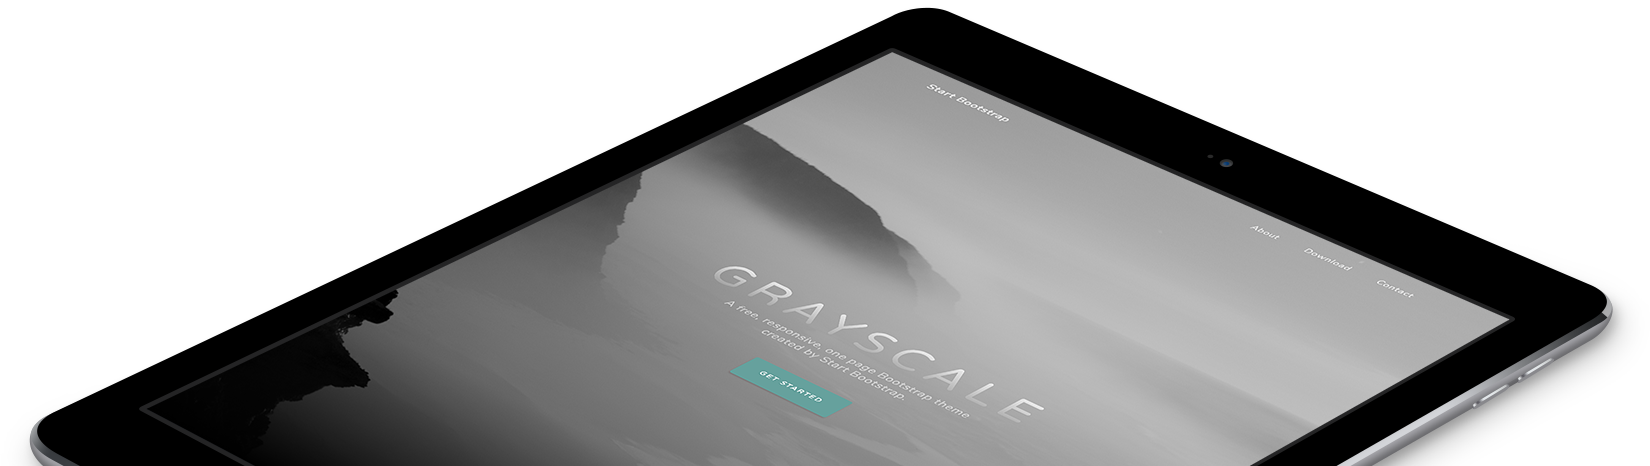
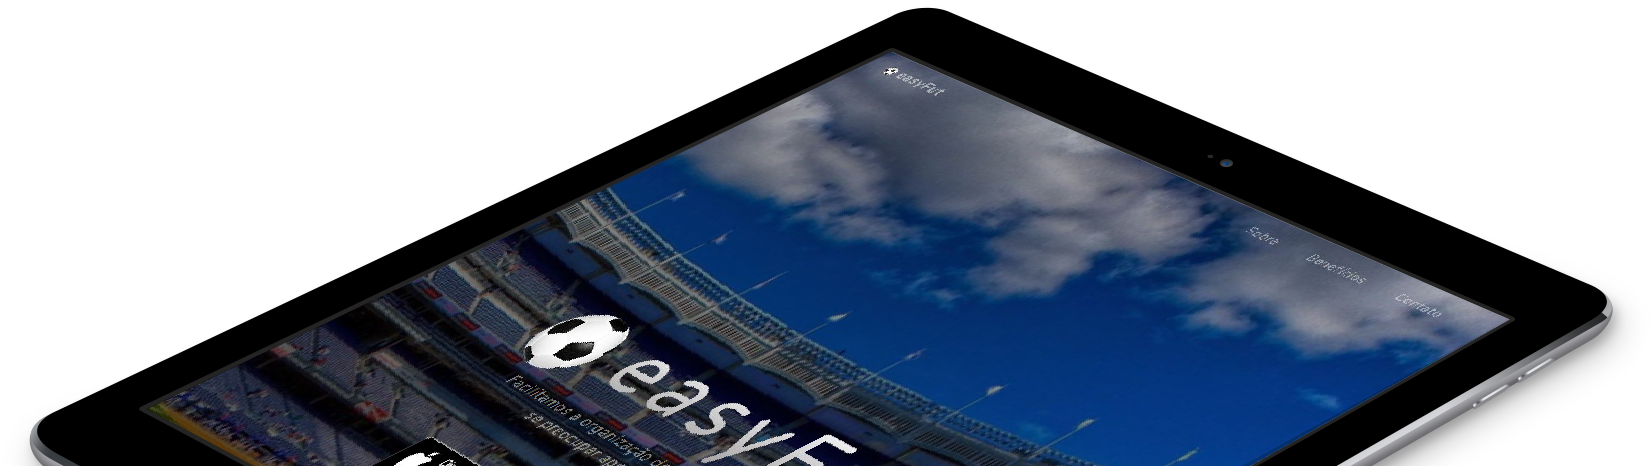
Add files via upload

diff --git a/index.html b/index.html
@@ -1,4 +1,168 @@
 <!DOCTYPE html>
-<html lang="en">
+<html lang="PT-BR">
+    <head>
+        <meta charset="utf-8" />
+        <meta name="viewport" content="width=device-width, initial-scale=1, shrink-to-fit=no" />
+        <meta name="description" content="" />
+        <meta name="author" content="" />
+        <title>easyFut - Futebol simples como deve ser!</title>
+        <link rel="icon" type="image/x-icon" href="assets/img/favicon.ico" />
 
+        <script src="https://use.fontawesome.com/releases/v5.12.1/js/all.js" crossorigin="anonymous"></script>
+        <link href="https://fonts.googleapis.com/css?family=Varela+Round" rel="stylesheet" />
+        <link href="https://fonts.googleapis.com/css?family=Nunito:200,200i,300,300i,400,400i,600,600i,700,700i,800,800i,900,900i" rel="stylesheet" />
+
+        <!-- CSS -->
+        <link href="css/styles.css" rel="stylesheet" />
+    </head>
+    <body id="page-top">
+        <!-- Navigation-->
+        <nav class="navbar navbar-expand-lg navbar-light fixed-top" id="mainNav">
+            <div class="container">
+                <a class="navbar-brand js-scroll-trigger" href="#page-top"><img src="assets/img/favicon.ico"> easyFut</a>
+                <button class="navbar-toggler navbar-toggler-right" type="button" data-toggle="collapse" data-target="#navbarResponsive" aria-controls="navbarResponsive" aria-expanded="false" aria-label="Toggle navigation"><i class="fas fa-bars"></i></button>
+                <div class="collapse navbar-collapse" id="navbarResponsive">
+                    <ul class="navbar-nav ml-auto">
+                        <li class="nav-item"><a class="nav-link js-scroll-trigger" href="#about">Sobre</a></li>
+                        <li class="nav-item"><a class="nav-link js-scroll-trigger" href="#projects">Benefícios</a></li>
+                        <li class="nav-item"><a class="nav-link js-scroll-trigger" href="#signup">Contato</a></li>
+                    </ul>
+                </div>
+            </div>
+        </nav>
+        <!-- Masthead-->
+        <header class="masthead">
+            <div class="container d-flex h-100 align-items-center">
+                <div class="mx-auto text-center">
+                    <h1 class="mx-auto my-0" style="background-color: rgb(160, 159, 159)"><img src="assets/img/bola.png" height="110" width="170">easyFut</h1>
+                    <h2 class="text-white-50 mx-auto mt-2 mb-5">Facilitamos a organização do seu futebol, para se preocupar apenas em jogar.</h2>
+                    <img src="assets/img/badge-apple-store.png" class="pointer" height="100" width="210">
+                    <img src="assets/img/badge-google-play.png" class="pointer" height="100" width="210"><br><br>
+                    <a class="btn btn-primary js-scroll-trigger" href="#about">Começar</a>
+                </div>
+            </div>
+        </header>
+        <!-- About-->
+        <section class="about-section text-center" id="about">
+            <div class="container">
+                <div class="row">
+                    <div class="col-lg-8 mx-auto">
+                        <h2 class="text-white mb-4">Built with Bootstrap 4</h2>
+                        <p class="text-white-50">Grayscale is a free Bootstrap theme created by Start Bootstrap. It can be yours right now, simply download the template on <a href="http://startbootstrap.com/template-overviews/grayscale/">the preview page</a>. The theme is open source, and you can use it for any purpose, personal or commercial.</p>
+                    </div>
+                </div>
+                <img class="img-fluid" src="assets/img/ipad.png" alt="" />
+            </div>
+        </section>
+        <!-- Projects-->
+        <section class="projects-section bg-light" id="projects">
+            <div class="container">
+                <!-- Featured Project Row-->
+                <div class="row align-items-center no-gutters mb-4 mb-lg-5">
+                    <div class="col-xl-8 col-lg-7"><img class="img-fluid mb-3 mb-lg-0" src="assets/img/bg-masthead.jpg" alt="" /></div>
+                    <div class="col-xl-4 col-lg-5">
+                        <div class="featured-text text-center text-lg-left">
+                            <h4>Shoreline</h4>
+                            <p class="text-black-50 mb-0">Grayscale is open source and MIT licensed. This means you can use it for any project - even commercial projects! Download it, customize it, and publish your website!</p>
+                        </div>
+                    </div>
+                </div>
+                <!-- Project One Row-->
+                <div class="row justify-content-center no-gutters mb-5 mb-lg-0">
+                    <div class="col-lg-6"><img class="img-fluid" src="assets/img/demo-image-01.jpg" alt="" /></div>
+                    <div class="col-lg-6">
+                        <div class="bg-black text-center h-100 project">
+                            <div class="d-flex h-100">
+                                <div class="project-text w-100 my-auto text-center text-lg-left">
+                                    <h4 class="text-white">Misty</h4>
+                                    <p class="mb-0 text-white-50">An example of where you can put an image of a project, or anything else, along with a description.</p>
+                                    <hr class="d-none d-lg-block mb-0 ml-0" />
+                                </div>
+                            </div>
+                        </div>
+                    </div>
+                </div>
+                <!-- Project Two Row-->
+                <div class="row justify-content-center no-gutters">
+                    <div class="col-lg-6"><img class="img-fluid" src="assets/img/demo-image-02.jpg" alt="" /></div>
+                    <div class="col-lg-6 order-lg-first">
+                        <div class="bg-black text-center h-100 project">
+                            <div class="d-flex h-100">
+                                <div class="project-text w-100 my-auto text-center text-lg-right">
+                                    <h4 class="text-white">Mountains</h4>
+                                    <p class="mb-0 text-white-50">Another example of a project with its respective description. These sections work well responsively as well, try this theme on a small screen!</p>
+                                    <hr class="d-none d-lg-block mb-0 mr-0" />
+                                </div>
+                            </div>
+                        </div>
+                    </div>
+                </div>
+            </div>
+        </section>
+        <!-- Signup-->
+        <section class="signup-section" id="signup">
+            <div class="container">
+                <div class="row">
+                    <div class="col-md-10 col-lg-8 mx-auto text-center">
+                        <i class="far fa-paper-plane fa-2x mb-2 text-white"></i>
+                        <h2 class="text-white mb-5">Subscribe to receive updates!</h2>
+                        <form class="form-inline d-flex"><input class="form-control flex-fill mr-0 mr-sm-2 mb-3 mb-sm-0" id="inputEmail" type="email" placeholder="Enter email address..." /><button class="btn btn-primary mx-auto" type="submit">Subscribe</button></form>
+                    </div>
+                </div>
+            </div>
+        </section>
+        <!-- Contact-->
+        <section class="contact-section bg-black">
+            <div class="container">
+                <div class="row">
+                    <div class="col-md-4 mb-3 mb-md-0">
+                        <div class="card py-4 h-100">
+                            <div class="card-body text-center">
+                                <i class="fas fa-map-marked-alt text-primary mb-2"></i>
+                                <h4 class="text-uppercase m-0">Address</h4>
+                                <hr class="my-4" />
+                                <div class="small text-black-50">4923 Market Street, Orlando FL</div>
+                            </div>
+                        </div>
+                    </div>
+                    <div class="col-md-4 mb-3 mb-md-0">
+                        <div class="card py-4 h-100">
+                            <div class="card-body text-center">
+                                <i class="fas fa-envelope text-primary mb-2"></i>
+                                <h4 class="text-uppercase m-0">Email</h4>
+                                <hr class="my-4" />
+                                <div class="small text-black-50"><a href="#!">hello@yourdomain.com</a></div>
+                            </div>
+                        </div>
+                    </div>
+                    <div class="col-md-4 mb-3 mb-md-0">
+                        <div class="card py-4 h-100">
+                            <div class="card-body text-center">
+                                <i class="fas fa-mobile-alt text-primary mb-2"></i>
+                                <h4 class="text-uppercase m-0">Phone</h4>
+                                <hr class="my-4" />
+                                <div class="small text-black-50">+1 (555) 902-8832</div>
+                            </div>
+                        </div>
+                    </div>
+                </div>
+                <div class="social d-flex justify-content-center">
+                    <a class="mx-2" href="#!"><i class="fab fa-twitter"></i></a><a class="mx-2" href="#!"><i class="fab fa-facebook-f"></i></a><a class="mx-2" href="#!"><i class="fab fa-github"></i></a>
+                </div>
+            </div>
+        </section>
+        <!-- Footer-->
+        <footer class="footer bg-black small text-center text-white-50">
+            <div class="container">
+                <img src="assets/img/badge-apple-store.png" class="pointer" height="50" width="110">
+                <img src="assets/img/badge-google-play.png" class="pointer" height="50" width="110"><br><br>
+            </div>
+            <div class="container">Copyright © easyFut 2020</div>
+        </footer>
+
+        <script src="https://cdnjs.cloudflare.com/ajax/libs/jquery/3.4.1/jquery.min.js"></script>
+        <script src="https://stackpath.bootstrapcdn.com/bootstrap/4.4.1/js/bootstrap.bundle.min.js"></script>
+        <script src="https://cdnjs.cloudflare.com/ajax/libs/jquery-easing/1.4.1/jquery.easing.min.js"></script>
+        <script src="js/scripts.js"></script>
+    </body>
 </html>

diff --git a/css/styles.css b/css/styles.css
@@ -10306,3 +10306,7 @@ body {
 .footer {
   padding: 5rem 0;
 }
+
+.pointer {
+  cursor: pointer;
+}
